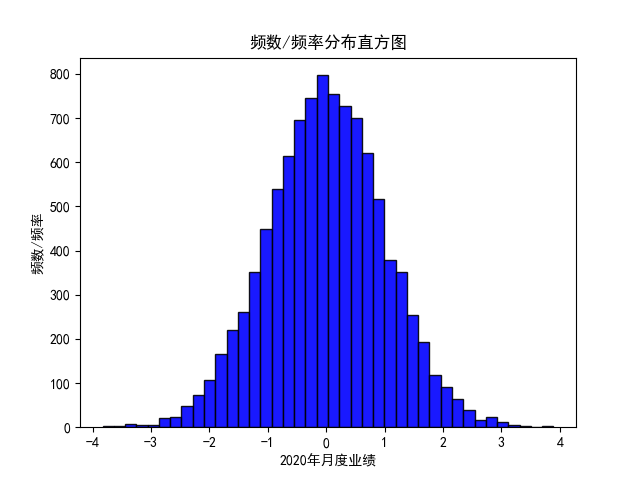
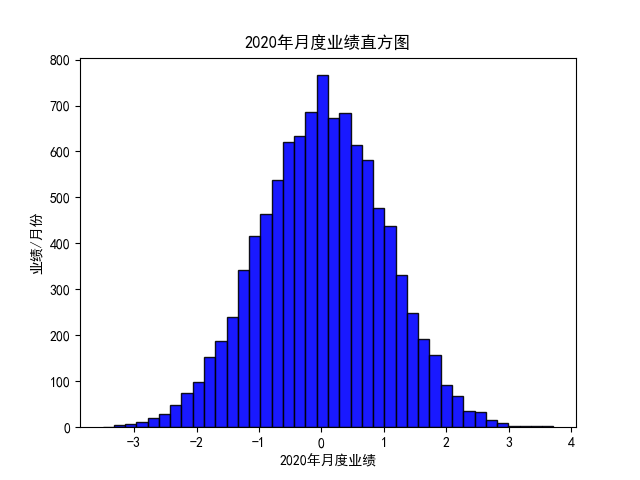
修改了前端页面一些展示内容

diff --git a/static/lyear_pages_login.html b/static/lyear_pages_login.html
@@ -1,0 +1,93 @@
+<!DOCTYPE html>
+<html lang="zh">
+<head>
+<meta charset="utf-8">
+<meta name="viewport" content="width=device-width, initial-scale=1, maximum-scale=1, user-scalable=no" />
+<title>登录页面 - 百卓数据管理系统模板</title>
+<link rel="icon" href="favicon.ico" type="image/ico">
+<meta name="keywords" content="LightYear,百卓,数据模板,数据管理系统,百卓HTML模板">
+<meta name="description" content="LightYear是一个基于Bootstrap v3.3.7的数据管理系统的HTML模板。">
+<meta name="author" content="yinqi">
+<link href="css/bootstrap.min.css" rel="stylesheet">
+<link href="css/materialdesignicons.min.css" rel="stylesheet">
+<link href="css/style.min.css" rel="stylesheet">
+<style>
+.lyear-wrapper {
+    position: relative;
+}
+.lyear-login {
+    display: flex !important;
+    min-height: 100vh;
+    align-items: center !important;
+    justify-content: center !important;
+}
+.login-center {
+    background: #fff;
+    min-width: 38.25rem;
+    padding: 2.14286em 3.57143em;
+    border-radius: 5px;
+    margin: 2.85714em 0;
+}
+.login-header {
+    margin-bottom: 1.5rem !important;
+}
+.login-center .has-feedback.feedback-left .form-control {
+    padding-left: 38px;
+    padding-right: 12px;
+}
+.login-center .has-feedback.feedback-left .form-control-feedback {
+    left: 0;
+    right: auto;
+    width: 38px;
+    height: 38px;
+    line-height: 38px;
+    z-index: 4;
+    color: #dcdcdc;
+}
+.login-center .has-feedback.feedback-left.row .form-control-feedback {
+    left: 15px;
+}
+</style>
+</head>
+  
+<body>
+<div class="row lyear-wrapper">
+  <div class="lyear-login">
+    <div class="login-center">
+      <div class="login-header text-center">
+        <!--<a href="index.html"> <img alt="light year admin" src="images/logo-sidebar.png"> </a>-->
+      </div>
+      <form action="#!" method="post">
+        <div class="form-group has-feedback feedback-left">
+          <input type="text" placeholder="请输入您的用户名" class="form-control" name="username" id="username" />
+          <span class="mdi mdi-account form-control-feedback" aria-hidden="true"></span>
+        </div>
+        <div class="form-group has-feedback feedback-left">
+          <input type="password" placeholder="请输入密码" class="form-control" id="password" name="password" />
+          <span class="mdi mdi-lock form-control-feedback" aria-hidden="true"></span>
+        </div>
+        <div class="form-group has-feedback feedback-left row">
+          <div class="col-xs-7">
+            <input type="text" name="captcha" class="form-control" placeholder="验证码">
+            <span class="mdi mdi-check-all form-control-feedback" aria-hidden="true"></span>
+          </div>
+          <div class="col-xs-5">
+            <img src="images/captcha.png" class="pull-right" id="captcha" style="cursor: pointer;" onclick="this.src=this.src+'?d='+Math.random();" title="点击刷新" alt="captcha">
+          </div>
+        </div>
+        <div class="form-group">
+          <button class="btn btn-block btn-primary" type="button" onclick="location.href='index.html'">立即登录</button>
+        </div>
+      </form>
+      <hr>
+      <footer class="col-sm-12 text-center">
+        <p class="m-b-0">Copyright © 2019 <a href="https://www.byzoro.com/">百卓网络</a>. All right reserved</p>
+      </footer>
+    </div>
+  </div>
+</div>
+<script type="text/javascript" src="js/jquery.min.js"></script>
+<script type="text/javascript" src="js/bootstrap.min.js"></script>
+<script type="text/javascript">;</script>
+</body>
+</html>

diff --git a/templates/index2.html b/templates/index2.html
@@ -28,7 +28,7 @@
         <nav class="sidebar-main">
           <ul class="nav nav-drawer">
             <li class="nav-item active"> <a href="/"><i class="mdi mdi-home"></i> 数据概览</a> </li>
-            <li class="nav-item active"> <a href="/index2/"><i class="mdi mdi-home"></i> 数据探索</a> </li>
+            <li class="nav-item active"> <a href="/index2/" style="color: #2ba3f6;font-size: medium"><i class="mdi mdi-home"></i> 数据探索</a> </li>
             <li class="nav-item active"> <a href="/index3/"><i class="mdi mdi-home"></i> 数据分布</a> </li>
             <li class="nav-item active"> <a href="/doc/"><i class="mdi mdi-home"></i> 数据列表</a> </li>
             <li class="nav-item active"> <a href="../static/login.html"><i class="mdi mdi-home"></i> 登录页面</a> </li>
@@ -229,7 +229,7 @@
           <div class="col-lg-6"> 
             <div class="card">
               <div class="card-header">
-                <h4>交易历史记录</h4>
+                <h4>2020月度业绩</h4>
               </div>
               <div class="card-body">
 {#                <canvas class="js-chartjs-lines"></canvas>#}
@@ -256,7 +256,7 @@
           <div class="col-lg-6"> 
             <div class="card">
               <div class="card-header">
-                <h4>交易历史记录</h4>
+                <h4>月度回款</h4>
               </div>
               <div class="card-body">
                 <canvas class="js-chartjs-lines"></canvas>
@@ -282,7 +282,7 @@
           <div class="col-lg-6"> 
             <div class="card">
               <div class="card-header">
-                <h4>交易历史记录</h4>
+                <h4>月度回款</h4>
               </div>
               <div class="card-body">
                 <canvas class="js-chartjs-lines"></canvas>
@@ -337,7 +337,7 @@ $(document).ready(function(e) {
 		labels: ['2003', '2004', '2005', '2006', '2007', '2008', '2009', '2010', '2011', '2012', '2013', '2014'],
 		datasets: [
 			{
-				label: '交易资金',
+				label: '资金',
 				data: [20, 25, 40, 30, 45, 40, 55, 40, 48, 40, 42, 50],
 				borderColor: '#358ed7',
 				backgroundColor: 'rgba(53, 142, 215, 0.175)',

diff --git a/templates/index1.html b/templates/index1.html
@@ -29,7 +29,7 @@
         
         <nav class="sidebar-main">
           <ul class="nav nav-drawer">
-            <li class="nav-item active"> <a href="/"><i class="mdi mdi-home"></i> 数据概览</a> </li>
+            <li class="nav-item active"> <a href="/" style="color: #2ba3f6;font-size: medium"><i class="mdi mdi-home"></i> 数据概览</a> </li>
             <li class="nav-item active"> <a href="/index2/"><i class="mdi mdi-home"></i> 数据探索</a> </li>
             <li class="nav-item active"> <a href="/index3/"><i class="mdi mdi-home"></i> 数据分布</a> </li>
             <li class="nav-item active"> <a href="/doc/"><i class="mdi mdi-home"></i> 数据列表</a> </li>
@@ -294,10 +294,10 @@
                 <h4>项目数据</h4>
               </div>
               <div class="card-body">
-                  <div class="iframe-body-sty">
-	                <iframe id="iframe-shrink" src="../static/render.html" width="481px" height="364px"></iframe>
-                    </div>
-
+{#                  <div class="iframe-body-sty">#}
+{#	                <iframe id="iframe-shrink" src="../static/render.html" width="481px" height="364px"></iframe>#}
+{#                    </div>#}
+                    <img src="../static/pic/pie.png">
 {#                <canvas class="js-chartjs-lines"></canvas>#}
               </div>
             </div>

diff --git a/templates/index3.html b/templates/index3.html
@@ -29,7 +29,7 @@
           <ul class="nav nav-drawer">
             <li class="nav-item active"> <a href="/"><i class="mdi mdi-home"></i> 数据概览</a> </li>
             <li class="nav-item active"> <a href="/index2/"><i class="mdi mdi-home"></i> 数据探索</a> </li>
-            <li class="nav-item active"> <a href="/index3/"><i class="mdi mdi-home"></i> 数据分布</a> </li>
+            <li class="nav-item active"> <a href="/index3/" style="color: #2ba3f6;font-size: medium"><i class="mdi mdi-home"></i> 数据分布</a> </li>
             <li class="nav-item active"> <a href="/doc/"><i class="mdi mdi-home"></i> 数据列表</a> </li>
             <li class="nav-item active"> <a href="../static/login.html"><i class="mdi mdi-home"></i> 登录页面</a> </li>
        

diff --git a/templates/doc.html b/templates/doc.html
@@ -30,7 +30,7 @@
             <li class="nav-item active"> <a href="/"><i class="mdi mdi-home"></i> 数据概览</a> </li>
             <li class="nav-item active"> <a href="/index2/"><i class="mdi mdi-home"></i> 数据探索</a> </li>
             <li class="nav-item active"> <a href="/index3/"><i class="mdi mdi-home"></i> 数据趋势</a> </li>
-            <li class="nav-item active"> <a href="/doc/"><i class="mdi mdi-home"></i> 数据列表</a> </li>
+            <li class="nav-item active"> <a href="/doc/" style="color: #2ba3f6;font-size: medium"><i class="mdi mdi-home"></i> 数据列表</a> </li>
             <li class="nav-item active"> <a href="../static/login.html"><i class="mdi mdi-home"></i> 登录页面</a> </li>
        
             

diff --git a/static/lyear_pages_edit_pwd.html b/static/lyear_pages_edit_pwd.html
@@ -59,8 +59,8 @@
           <ul class="topbar-right">
             <li class="dropdown dropdown-profile">
               <a href="javascript:void(0)" data-toggle="dropdown">
-                <!--<img class="img-avatar img-avatar-48 m-r-10" src="images/users/avatar.jpg" alt="笔下光年" />-->
-                <span>笔下光年 <span class="caret"></span></span>
+                <!--<img class="img-avatar img-avatar-48 m-r-10" src="images/users/avatar.jpg" alt="百卓网络" />-->
+                <span>百卓网络 <span class="caret"></span></span>
               </a>
               <ul class="dropdown-menu dropdown-menu-right">
                 <li> <a href="lyear_pages_profile.html"><i class="mdi mdi-account"></i> 个人信息</a> </li>

diff --git a/demomat/views.py b/demomat/views.py
@@ -73,9 +73,9 @@ def index2(reqeust):
     # 显示横轴标签
     plt.xlabel("2020年月度业绩")
     # 显示纵轴标签
-    plt.ylabel("频数/频率")
+    plt.ylabel("业绩/月份")
     # 显示图标题
-    plt.title("频数/频率分布直方图")
+    plt.title("2020年月度业绩直方图")
     plt.savefig('static/pic/test4.png')
     plt.clf()
     plt.close()
